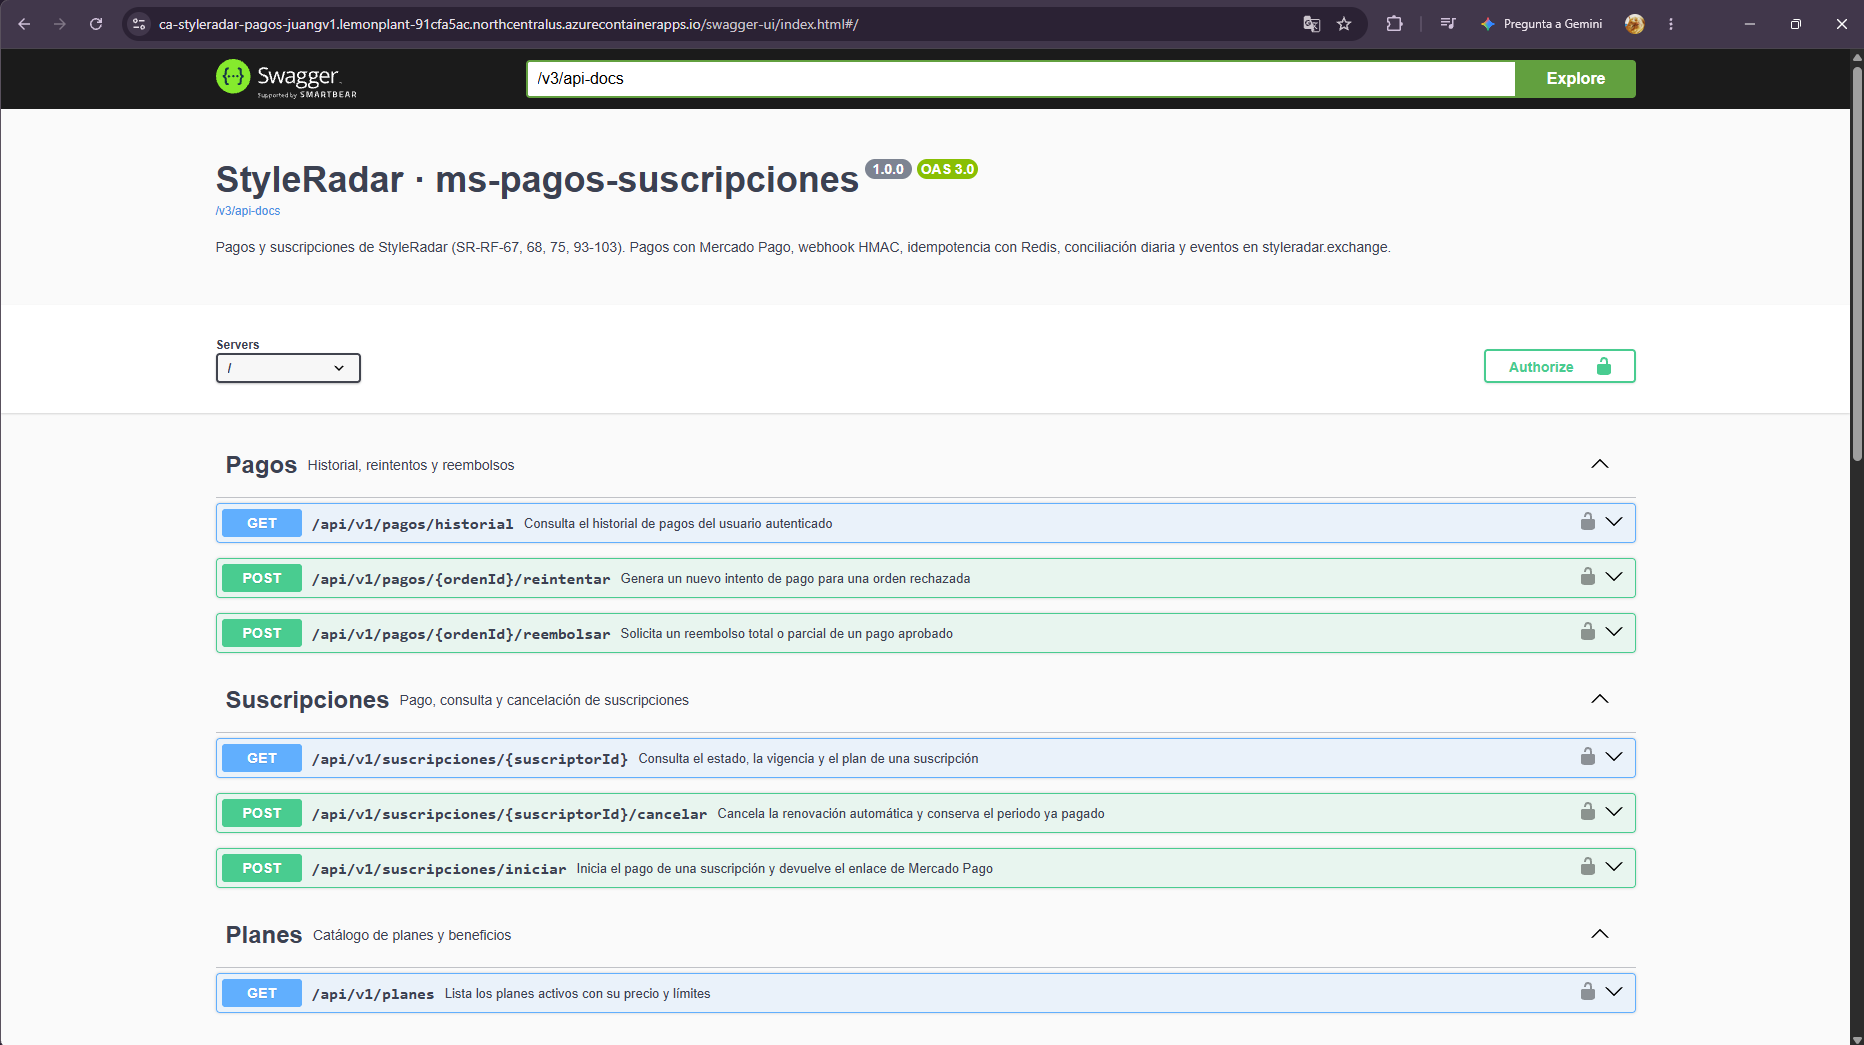
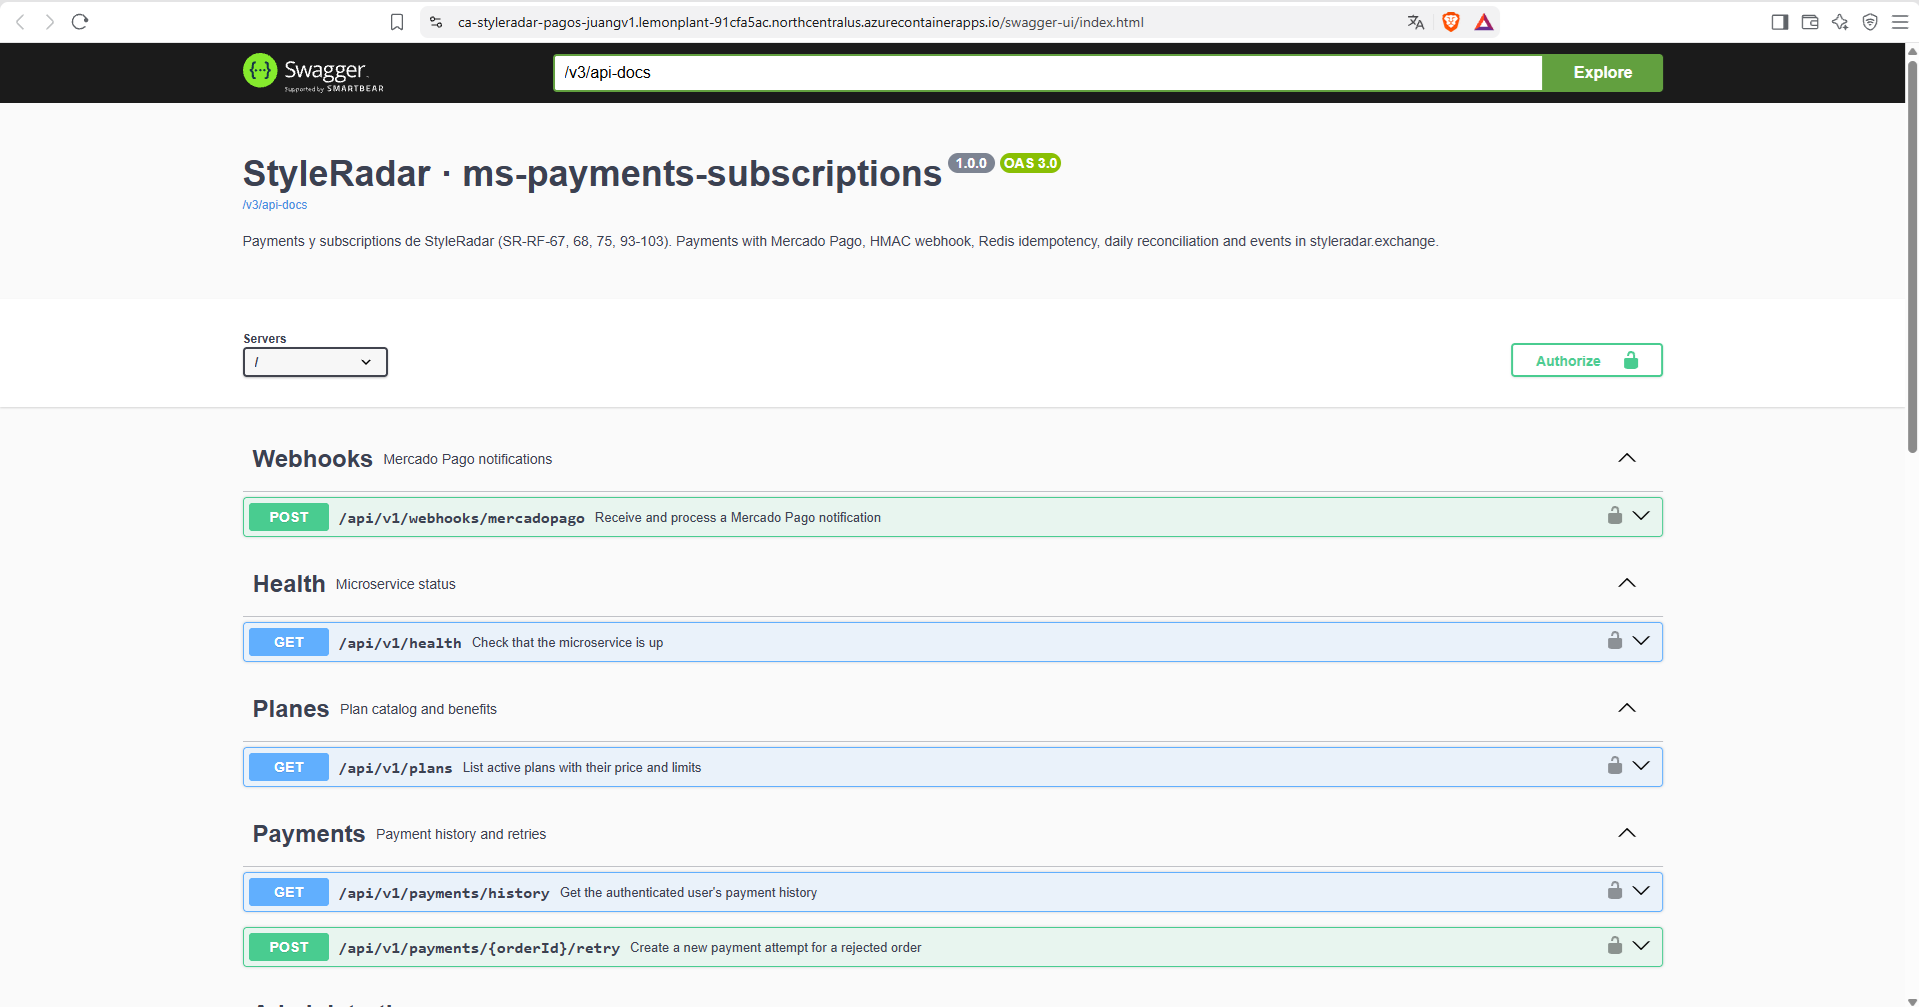
docs: correccion endpoints en ingles y ejemplos

diff --git a/docs/secciones/03-endpoints-y-enlace-a-swagger.md b/docs/secciones/03-endpoints-y-enlace-a-swagger.md
@@ -2,8 +2,7 @@
 
 ---
 
-## <img src="https://img.shields.io/badge/03-5600EF?style=for-the-badge" height="20" align="absmiddle" /> 3. ENDPOINTS Y ENLACE A SWAGGER (Corregir)
-
+## 3. ENDPOINTS Y ENLACE A SWAGGER 
 La documentación interactiva OpenAPI 3.0 y los contratos de ejecución se encuentran desplegados y clasificados por entorno:
 
 ### Matriz Oficial de Enlaces por Entorno (PROD, QA, LOCAL)
@@ -26,14 +25,14 @@ La documentación interactiva OpenAPI 3.0 y los contratos de ejecución se encue
 
 | Método | Endpoint | Autorización | Éxito | Errores |
 | :---: | :--- | :--- | :---: | :--- |
-| `POST` | `/api/v1/suscripciones/iniciar` | JWT / `X-User-Id` | `201` | `400`, `403`, `422` |
-| `GET` | `/api/v1/suscripciones/{suscriptorId}` | Titular o `ADMIN_STYLERADAR` | `200` | `401`, `403`, `404` |
-| `POST` | `/api/v1/suscripciones/{suscriptorId}/cancelar` | Titular | `200` | `400`, `403`, `404`, `422` |
-| `GET` | `/api/v1/pagos/historial` | JWT / `X-User-Id` | `200` | `401` |
-| `POST` | `/api/v1/pagos/{ordenId}/reintentar` | Titular | `200` | `400`, `403`, `404`, `422` |
-| `POST` | `/api/v1/pagos/{ordenId}/reembolsar` | `ADMIN_STYLERADAR` | `200` | `400`, `403`, `404`, `422` |
-| `GET` | `/api/v1/admin/pagos?estado=` | `ADMIN_STYLERADAR` | `200` | `403` |
-| `GET` | `/api/v1/planes` | Autenticado | `200` | `401` |
+| `POST` | `/api/v1/subscriptions/start` | JWT / `X-User-Id` | `202` | `400`, `403`, `422` |
+| `GET` | `/api/v1/subscriptions/{subscriberId}` | Titular o `ADMIN_STYLERADAR` | `200` | `401`, `403`, `404` |
+| `POST` | `/api/v1/subscriptions/{subscriberId}/cancel` | Titular | `200` | `400`, `403`, `404`, `422` |
+| `GET` | `/api/v1/payments/history` | JWT / `X-User-Id` | `200` | `401` |
+| `POST` | `/api/v1/payments/{orderId}/retry` | Titular | `200` | `400`, `403`, `404`, `422` |
+| `GET` | `/api/v1/admin/payments` | `ADMIN_STYLERADAR` | `200` | `403` |
+| `GET` | `/api/v1/admin/payments/{id}` | `ADMIN_STYLERADAR` | `200` | `403`, `404` |
+| `GET` | `/api/v1/plans` | Autenticado | `200` | `401` |
 | `POST` | `/api/v1/webhooks/mercadopago` | HMAC `x-signature` | `200` | `400` |
 | `GET` | `/api/v1/health` | Público | `200` | — |
 | `GET` | `/actuator/health` | Público | `200`/`503` | — |
@@ -42,59 +41,146 @@ La documentación interactiva OpenAPI 3.0 y los contratos de ejecución se encue
 
 <br>
 
-**Crear suscripción de usuario**
+#### Ejemplo 1: Iniciar pago de tienda (`POST /api/v1/subscriptions/start`)
 
-```http
-POST /api/v1/suscripciones/iniciar
-Authorization: Bearer <JWT>
-Content-Type: application/json
+```bash
+curl -i -X POST "$BASE_URL/api/v1/subscriptions/start" \
+  -H "Authorization: Bearer $TOKEN" \
+  -H "X-User-Id: 3" \
+  -H "Accept: application/json" \
+  -H "Content-Type: application/json" \
+  -d '{
+    "subscriberType": "STORE",
+    "payerEmail": "test_user_8378736833666739761@testuser.com",
+    "planId": 3,
+    "taxId": "900555777"
+  }'
 ```
+##### Respuesta Exitosa (`202 Accepted`):
 
 ```json
 {
-  "tipoSuscriptor": "USUARIO",
-  "emailPayer": "test_user_117646358391238183361@testuser.com",
-  "planId": 2
+  "subscriptionId": 26,
+  "orderId": 30,
+  "status": "PENDING",
+  "initPoint": "https://www.mercadopago.com.co/subscriptions/checkout?preapproval_id=...",
+  "message": "Continúa a Mercado Pago para activar tu almacén."
+}
+```
+#### Ejemplo 2: Consultar suscripcion (`GET /api/v1/subscriptions/{subscriberId}`)
+
+```bash
+curl -i -X GET "$BASE_URL/api/v1/subscriptions/3" \
+  -H "Authorization: Bearer $TOKEN" \
+  -H "X-User-Id: 3" \
+  -H "Accept: application/json"
+```
+##### Respuesta (`200 OK`):
+
+```json
+{
+  "id": 26,
+  "subscriberId": "3",
+  "subscriberType": "STORE",
+  "plan": {
+    "id": 3,
+    "name": "Store Basic",
+    "subscriberType": "STORE",
+    "price": {
+      "value": 89000.00,
+      "currency": "COP"
+    },
+    "limits": {
+      "max_products": 50
+    },
+    "active": true
+  },
+  "status": "ACTIVE",
+  "startDate": "2026-11-25",
+  "endDate": "2026-12-25",
+  "autoRenewal": false,
+  "access": true,
+  "taxId": "900555777",
+  "storeId": null
+}
+```
+#### Ejemplo 3: Cancelar renovación (`POST /api/v1/subscriptions/{subscriberId}/cancel`)
+
+```bash
+curl -i -X POST "$BASE_URL/api/v1/subscriptions/3/cancel" \
+  -H "Authorization: Bearer $TOKEN" \
+  -H "X-User-Id: 3" \
+  -H "Accept: application/json" \
+  -H "Content-Type: application/json" \
+  -d '{
+    "confirmed": true
+  }'
+```
+##### Respuesta (`200 OK`):
+
+```json
+{
+  "subscriptionId": 26,
+  "autoRenewal": false,
+  "status": "ACTIVE",
+  "endDate": "2026-12-25",
+  "cancellationConfirmed": true,
+  "message": "La renovación de tu suscripción fue cancelada. Mantienes el acceso hasta 2026-12-25."
 }
 ```
 
+#### Ejemplo 4: Reintentar pago rechazado (`POST /api/v1/payments/{orderId}/retry`)
+
+```bash
+curl -i -X POST "$BASE_URL/api/v1/payments/30/retry" \
+  -H "Authorization: Bearer $TOKEN" \
+  -H "X-User-Id: 3" \
+  -H "Accept: application/json" \
+  -H "Content-Type: application/json" \
+  -d '{
+    "payerEmail": "test_user_8378736833666739761@testuser.com"
+  }'
+```
+##### Respuesta (`200 OK`):
+
 ```json
 {
-  "suscripcionId": 100,
-  "ordenId": 10,
-  "estado": "PENDIENTE",
-  "initPoint": "https://www.mercadopago.com.co/subscriptions/checkout?preapproval_id=..."
+  "orderId": 31,
+  "status": "PENDING",
+  "initPoint": "[https://www.mercadopago.com.co/subscriptions/checkout?preapproval_id=](https://www.mercadopago.com.co/subscriptions/checkout?preapproval_id=)...",
+  "message": "Nuevo intento de pago generado. Continúa en Mercado Pago."
 }
 ```
 
-**Crear suscripción de almacén**
+#### Ejemplo 5: Error de negocio en GlobalExceptionHandler (`POST /api/v1/subscriptions/start`)
 
-```json
-{
-  "tipoSuscriptor": "ALMACEN",
-  "emailPayer": "test_user_...@testuser.com",
-  "nit": "900123456-7",
-  "almacenId": "a1111111-1111-1111-1111-111111111111"
-}
+```bash
+curl -i -X POST "$BASE_URL/api/v1/subscriptions/start" \
+  -H "Authorization: Bearer $TOKEN" \
+  -H "X-User-Id: 3" \
+  -H "Accept: application/json" \
+  -H "Content-Type: application/json" \
+  -d '{
+    "planId": 3,
+    "subscriberType": "STORE",
+    "taxId": "900555777"
+  }'
 ```
-
-`almacenId` es obligatorio para `ALMACEN`: es el UUID que usa `ms-item-catalogo` para suspender el catálogo.
-
-**Error estándar**
+##### Respuesta (`409 Conflict`):
 
 ```json
 {
-  "timestamp": "2026-11-17T02:15:30.123",
-  "status": 400,
-  "error": "INVALID_STATE",
-  "message": "La suscripción ya está activa. No se requiere reintentar el pago.",
-  "path": "/api/v1/pagos/1/reintentar",
-  "validationErrors": []
+  "type": "about:blank",
+  "title": "Conflict",
+  "status": 409,
+  "detail": "Tu almacén ya tiene una suscripción activa o un pago pendiente.",
+  "instance": "/api/v1/subscriptions/start",
+  "code": "SUBSCRIPTION_ALREADY_EXISTS",
+  "timestamp": "2026-11-25T12:30:00"
 }
 ```
 
 </details>
-
 
 ---
 

diff --git a/docs/secciones/01-nombre-del-servicio-y-bounded-context.md b/docs/secciones/01-nombre-del-servicio-y-bounded-context.md
@@ -3,7 +3,7 @@
 ---
 <a id="1-nombre-del-servicio-y-su-bounded-context"></a>
 
-## <img src="https://img.shields.io/badge/01-5600EF?style=for-the-badge" height="20" align="absmiddle" /> 1. NOMBRE DEL SERVICIO Y SU BOUNDED CONTEXT
+## 1. NOMBRE DEL SERVICIO Y SU BOUNDED CONTEXT
 
 * **Identificador de Servicio:** `NQS-Payment-Service` (`ms-pagos-suscripciones`)
 * **Paquete Arquitectónico:** `Paquete 4: Pagos y Estadísticas`
@@ -43,13 +43,7 @@ El microservicio `ms-pagos-suscripciones` implementa los siguientes requerimient
 
 ### Arquetipos de Moda y Personajes de StyleRadar
 
-<div align="center">
-
-| Antonia (Sastre) | Mateo (Calle) | Aura (Futuro) | Nora (Rebelde) | Tomás (Esencial) |
-| :---: | :---: | :---: | :---: | :---: |
-| <img src="https://raw.githubusercontent.com/JUANNICOLASA/Frontend-Style-Radar/main/styleradar-frontend-v3/assets/mascota/antonia.jpg" width="110" style="border-radius:8px;" alt="Antonia" /><br>**Sastre**<br><sub>Tiendas & Descubrimiento</sub> | <img src="https://raw.githubusercontent.com/JUANNICOLASA/Frontend-Style-Radar/main/styleradar-frontend-v3/assets/mascota/mateo.jpg" width="110" style="border-radius:8px;" alt="Mateo" /><br>**Calle**<br><sub>Playlists & Cultura Urbana</sub> | <img src="https://raw.githubusercontent.com/JUANNICOLASA/Frontend-Style-Radar/main/styleradar-frontend-v3/assets/mascota/aura.jpg" width="110" style="border-radius:8px;" alt="Aura" /><br>**Futuro**<br><sub>Probador Virtual AI</sub> | <img src="https://raw.githubusercontent.com/JUANNICOLASA/Frontend-Style-Radar/main/styleradar-frontend-v3/assets/mascota/nora.jpg" width="110" style="border-radius:8px;" alt="Nora" /><br>**Rebelde**<br><sub>Segunda Vida & Vintage</sub> | <img src="https://raw.githubusercontent.com/JUANNICOLASA/Frontend-Style-Radar/main/styleradar-frontend-v3/assets/mascota/tomas.jpg" width="110" style="border-radius:8px;" alt="Tomás" /><br>**Esencial**<br><sub>Fundaciones & Donaciones</sub> |
-
-</div>
+Este microservicio da vida al arquetipo **Nora (Rebelde)**, la embajadora de la moda alternativa, la autenticidad y la cultura de segunda vida y estilo vintage dentro del ecosistema StyleRadar.
 
 ---
 

diff --git a/docs/secciones/04-eventos-que-publica-y-consume.md b/docs/secciones/04-eventos-que-publica-y-consume.md
@@ -2,9 +2,9 @@
 
 ---
 
-## <img src="https://img.shields.io/badge/04-5600EF?style=for-the-badge" height="20" align="absmiddle" /> 4. EVENTOS QUE PUBLICA Y CONSUME (CORREGIR)
+## 4. EVENTOS QUE PUBLICA Y CONSUME (CORREGIR)
 
-La comunicación asíncrona entre microservicios se orquesta a través de **RabbitMQ 3.12**. Este microservicio actúa como **productor** del evento de confirmación de pago.
+La comunicación asíncrona entre microservicios se orquesta a través de **RabbitMQ 3.13**. Este microservicio actúa como **productor** del evento de confirmación de pago.
  
 - **Exchange:** `styleradar.exchange` (topic, durable).
 - **Dead Letter Exchange:** `styleradar.dlx`.

diff --git a/docs/secciones/02-arquitectura-hexagonal-y-diagramas.md b/docs/secciones/02-arquitectura-hexagonal-y-diagramas.md
@@ -2,7 +2,7 @@
 
 ---
 
-## <img src="https://img.shields.io/badge/02-5600EF?style=for-the-badge" height="20" align="absmiddle" /> 2. ARQUITECTURA HEXAGONAL CON SUS DIAGRAMAS
+## 2. ARQUITECTURA HEXAGONAL CON SUS DIAGRAMAS
 
 El microservicio `NQS-Payment-Service` (`ms-pagos-suscripciones`) implementa rigurosamente **Arquitectura Hexagonal (Puertos y Adaptadores)** en conjunto con principios de **Domain-Driven Design (DDD)**. El núcleo de negocio permanece 100% puro en Java, completamente desacoplado de dependencias tecnológicas, frameworks web, motores de persistencia o brokers de mensajería.
 

diff --git a/docs/secciones/10-ramas-y-como-contribuir.md b/docs/secciones/10-ramas-y-como-contribuir.md
@@ -2,7 +2,7 @@
 
 ---
 
-## <img src="https://img.shields.io/badge/11-5600EF?style=for-the-badge" height="20" align="absmiddle" /> 11. RAMAS Y CÓMO CONTRIBUIR
+## 11. RAMAS Y CÓMO CONTRIBUIR
 
 El equipo sigue el modelo de trabajo **GitFlow adaptado para microservicios**. La rama `main` se encuentra protegida y solo recibe cambios mediante Pull Requests aprobados.
 

diff --git a/docs/secciones/08-pruebas-y-cobertura.md b/docs/secciones/08-pruebas-y-cobertura.md
@@ -2,7 +2,7 @@
 
 ---
 
-## <img src="https://img.shields.io/badge/08-5600EF?style=for-the-badge" height="20" align="absmiddle" /> 8. PRUEBAS Y COBERTURA (≥ 85%)
+## 8. PRUEBAS Y COBERTURA (≥ 85%)
 
 El proyecto exige una cobertura de código mínima del **85%** verificada automáticamente mediante el plugin de **JaCoCo** durante la fase de compilación.
 

diff --git a/docs/secciones/11-seguridad-y-owasp.md b/docs/secciones/11-seguridad-y-owasp.md
@@ -2,7 +2,7 @@
 
 ---
 
-## <img src="https://img.shields.io/badge/11-5600EF?style=for-the-badge" height="20" align="absmiddle" /> 11. SEGURIDAD, HABEAS DATA Y ANÁLISIS OWASP TOP 10:2025
+## 11. SEGURIDAD, HABEAS DATA Y ANÁLISIS OWASP TOP 10:2025
 
 El microservicio `NQS-Payment-Service` implementa las directrices oficiales de seguridad para (completar)...
 

diff --git a/docs/secciones/09-cicd-pipeline.md b/docs/secciones/09-cicd-pipeline.md
@@ -2,7 +2,7 @@
 
 ---
 
-## <img src="https://img.shields.io/badge/09-5600EF?style=for-the-badge" height="20" align="absmiddle" /> 09. CI/CD CON EL BADGE DEL PIPELINE
+## 09. CI/CD CON EL BADGE DEL PIPELINE
 
 El ciclo de vida del software implementa integración continua y entrega continua automatizada mediante **GitHub Actions / Azure Pipelines**:
 

diff --git a/docs/secciones/07-variables-de-entorno.md b/docs/secciones/07-variables-de-entorno.md
@@ -2,7 +2,7 @@
 
 ---
 
-## <img src="https://img.shields.io/badge/07-5600EF?style=for-the-badge" height="20" align="absmiddle" /> 7. VARIABLES DE ENTORNO
+## 7. VARIABLES DE ENTORNO
 
 Todas las configuraciones sensibles y dependientes de entorno se externalizan mediante variables de sistema conformes al estándar **Twelve-Factor App**.
 

diff --git a/docs/secciones/05-tecnologias-y-dependencias.md b/docs/secciones/05-tecnologias-y-dependencias.md
@@ -2,7 +2,7 @@
 
 ---
 
-## <img src="https://img.shields.io/badge/05-5600EF?style=for-the-badge" height="20" align="absmiddle" /> 5. TECNOLOGÍAS Y DEPENDENCIAS
+## 5. TECNOLOGÍAS Y DEPENDENCIAS
 
 El stack del microservicio cumple con el estándar unificado de arquitectura de StyleRadar:
 

diff --git a/docs/secciones/12-equipo-responsables-y-epica-jira.md b/docs/secciones/12-equipo-responsables-y-epica-jira.md
@@ -2,7 +2,7 @@
 
 ---
 
-## <img src="https://img.shields.io/badge/12-5600EF?style=for-the-badge" height="20" align="absmiddle" /> 12. EQUIPO, RESPONSABLES Y ENLACE A LA ÉPICA EN JIRA
+## 12. EQUIPO, RESPONSABLES Y ENLACE A LA ÉPICA EN JIRA
 
 ### Equipo y Responsables del Microservicio
 

diff --git a/docs/secciones/06-como-ejecutar-local-y-docker.md b/docs/secciones/06-como-ejecutar-local-y-docker.md
@@ -2,7 +2,7 @@
 
 ---
 
-## <img src="https://img.shields.io/badge/06-5600EF?style=for-the-badge" height="20" align="absmiddle" /> 6. CÓMO EJECUTAR LOCAL Y CON DOCKER
+## 6. CÓMO EJECUTAR LOCAL Y CON DOCKER
 
 ### Prerrequisitos de Entorno
 
